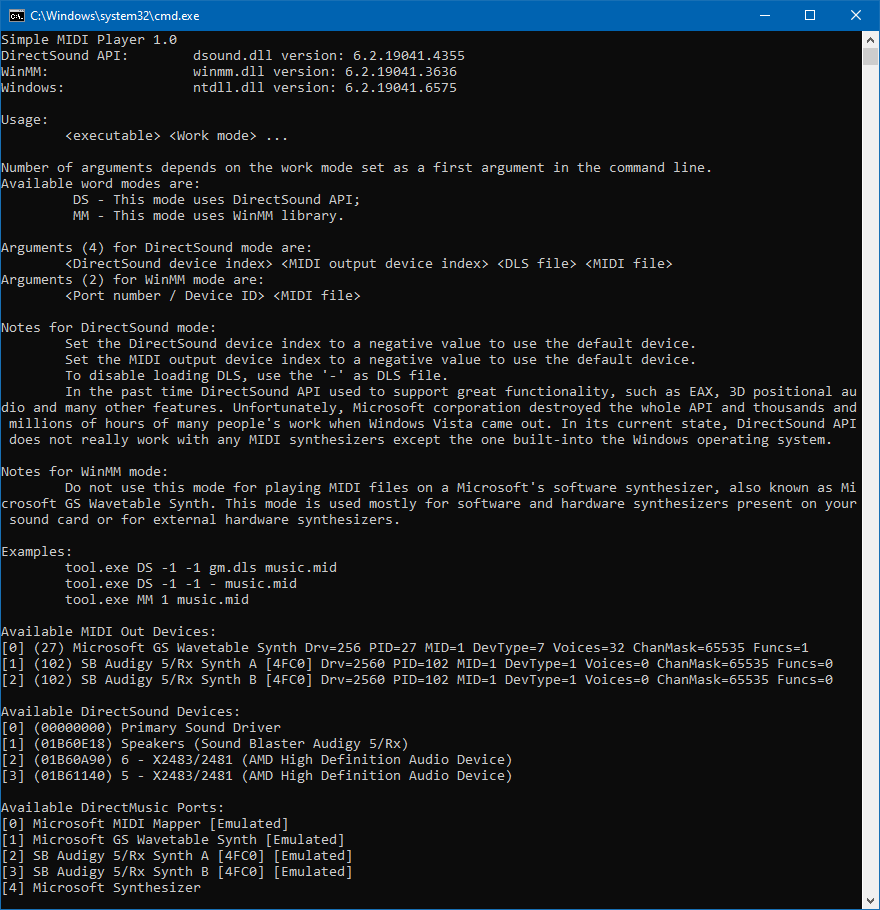
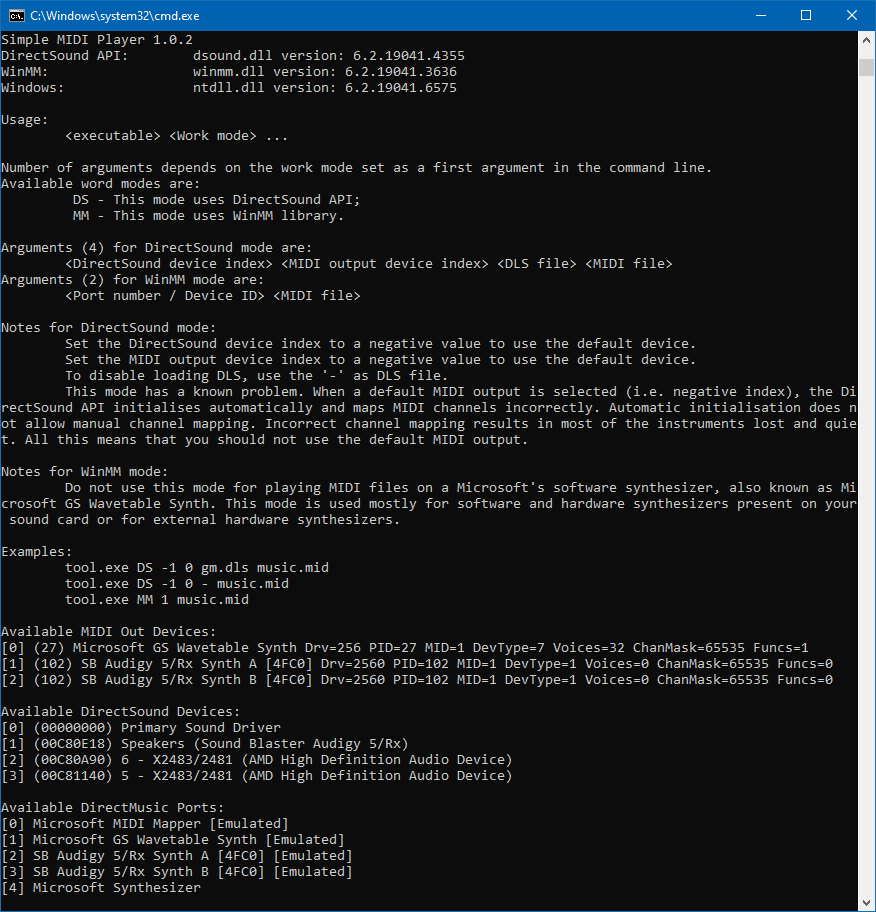
...

diff --git a/midi.cpp b/midi.cpp
@@ -3,8 +3,8 @@
 Simple MIDI Player.
 
 This player is able to play MIDI files using DirectSound API and WinMM library.
-DirectSound API can use the Microsoft's software synthesizer built-into the Windows operating system.
-WinMM library is able to play MIDI files on external software and hardware synthesizers.
+DirectSound API can be used for playback on all synthesizers.
+WinMM library is able to play MIDI files only on external software and hardware synthesizers.
 
 */
 
@@ -17,7 +17,7 @@ WinMM library is able to play MIDI files on external software and hardware synth
 #include <sstream>
 
 #define APP_NAME "Simple MIDI Player"
-#define APP_VER "1.0.1"
+#define APP_VER "1.0.2"
 
 const WCHAR* DIRECT_SOUND_DLL = L"dsound.dll";
 const WCHAR* WINDOWS_NT_DLL = L"ntdll.dll";
@@ -36,6 +36,7 @@ IDirectMusicSegment8* pSegment = NULL;
 IDirectMusicPort8* pPort = NULL;
 IDirectSoundBuffer* pDSBuffer = nullptr;
 BOOL isExternalSynth = FALSE;
+BOOL isSoftwareSynth = FALSE;
 
 // WinMM variables.
 std::vector<tagMIDIOUTCAPSA> midiOutDevices;
@@ -265,6 +266,7 @@ HRESULT CreateMusicPort(DMUS_PORTCAPS portCaps)
 	}
 
 	if (curPortCaps.dwFlags & DMUS_PC_SOFTWARESYNTH) {
+		isSoftwareSynth = TRUE;
 		std::cout << "Port is a software synthesizer" << std::endl;
 	}
 	else {
@@ -422,6 +424,11 @@ HRESULT Initialise(int ds_device_idx, int midi_output_device_idx, WCHAR* dls_fil
 		hr = pPerformance->AddPort(pPort);
 		if (FAILED(hr)) return hr;
 
+		for (int i = 0; i < 16; i++) {
+			hr = pPerformance->AssignPChannel(i, pPort, 0, i);
+			if (FAILED(hr)) return hr;
+		}
+
 		hr = pPort->Activate(TRUE);
 		if (FAILED(hr)) return hr;
 	}
@@ -460,68 +467,44 @@ HRESULT PlayMidi(WCHAR* midi_file_w, BOOL isExternalSynth)
 {
 	HRESULT hr;
 
-	if (isExternalSynth) {
-		// It looks like Microsoft has cut all the functions for communicating with external synthesizers.
-		// This is very sad.
-		return E_FAIL;
+	// Load MIDI file.
+	hr = pLoader->LoadObjectFromFile(CLSID_DirectMusicSegment, IID_IDirectMusicSegment8, midi_file_w, (void**)&pSegment);
+	if (FAILED(hr)) return hr;
+	if (!pSegment) {
+		std::cerr << "Segment is not loaded";
+		return -1;
 	}
-	else
-	{
-		// Load MIDI file.
-		hr = pLoader->LoadObjectFromFile(CLSID_DirectMusicSegment, IID_IDirectMusicSegment8, midi_file_w, (void**)&pSegment);
-		if (FAILED(hr)) return hr;
 
+	if ((!isExternalSynth) && (!isSoftwareSynth)) {
 		// Download instrument data to the synth (DLS)
 		hr = pSegment->Download(pPerformance);
 		if (FAILED(hr)) return hr;
-
-		if (!pSegment)
-		{
-			std::cerr << "Segment is not loaded";
-			return -1;
-		}
-
-		MUSIC_TIME segLenTicks;
-		REFERENCE_TIME segLenRT;
-		pSegment->GetLength(&segLenTicks);
-		pPerformance->MusicToReferenceTime(segLenTicks, &segLenRT);
-		DWORD prepareTimeMs;
-		pPerformance->GetPrepareTime(&prepareTimeMs);
-		REFERENCE_TIME latencyRT;
-		pPerformance->GetLatencyTime(&latencyRT);
-
-		std::cout << "Length: " << segLenTicks << " ticks, " << segLenRT << " ref. time." << std::endl;
-		std::cout << "Prepare time: " << prepareTimeMs << " ms, Latency: " << latencyRT << " ref. time." << std::endl;
-
-		// 5. Play the segment
-		/*
-		DMUS_SEGF_DEFAULT
-			Use flags embedded in the segment. This resolves the time to the segment's
-			default boundary and also causes the segment to play on its embedded
-			audiopath, if it was configured to do so in the authoring application.
-		DMUS_SEGF_AFTERPREPARETIME
-			Resolve time to a time after the prepare time. See
-			IDirectMusicPerformance8::GetPrepareTime.
-		*/
-		hr = pPerformance->PlaySegment(pSegment, DMUS_SEGF_DEFAULT | DMUS_SEGF_AFTERPREPARETIME, 0, NULL);
-		if (FAILED(hr)) return hr;
-
-		/*
-		pPerformance->PlaySegmentEx(
-			pSegment,     // Segment to play
-			NULL,         // Optional segment to fade from
-			NULL,         // Optional start time
-			DMUS_SEGF_BEAT, // Play on the next beat (standard MIDI files usually start immediately)
-			0,            // Start time (if using DMUS_SEGF_MEASURE/BEAT/GRID)
-			NULL,         // Object to receive notification
-
-			// ?
-			NULL,         // Audiopath (NULL uses default path set in InitAudio)
-
-			NULL          // Performance (for secondary performances)
-		);
-		*/
 	}
+
+	MUSIC_TIME segLenTicks;
+	REFERENCE_TIME segLenRT;
+	pSegment->GetLength(&segLenTicks);
+	pPerformance->MusicToReferenceTime(segLenTicks, &segLenRT);
+	DWORD prepareTimeMs;
+	pPerformance->GetPrepareTime(&prepareTimeMs);
+	REFERENCE_TIME latencyRT;
+	pPerformance->GetLatencyTime(&latencyRT);
+
+	std::cout << "Length: " << segLenTicks << " ticks, " << segLenRT << " ref. time." << std::endl;
+	std::cout << "Prepare time: " << prepareTimeMs << " ms, Latency: " << latencyRT << " ref. time." << std::endl;
+
+	// 5. Play the segment
+	/*
+	DMUS_SEGF_DEFAULT
+		Use flags embedded in the segment. This resolves the time to the segment's
+		default boundary and also causes the segment to play on its embedded
+		audiopath, if it was configured to do so in the authoring application.
+	DMUS_SEGF_AFTERPREPARETIME
+		Resolve time to a time after the prepare time. See
+		IDirectMusicPerformance8::GetPrepareTime.
+	*/
+	hr = pPerformance->PlaySegment(pSegment, DMUS_SEGF_DEFAULT | DMUS_SEGF_AFTERPREPARETIME, 0, NULL);
+	if (FAILED(hr)) return hr;
 
 	return S_OK;
 }
@@ -776,10 +759,11 @@ int main(int argc, char* argv[])
 		std::cout << "\tSet the DirectSound device index to a negative value to use the default device." << std::endl;
 		std::cout << "\tSet the MIDI output device index to a negative value to use the default device." << std::endl;
 		std::cout << "\tTo disable loading DLS, use the '" << convertWCharToStdStringWinAPI(DLS_FILE_NONE) << "' as DLS file." << std::endl;
-		std::cout << "\tIn the past time DirectSound API used to support great functionality, such as EAX, 3D positional audio and many other features. " <<
-			"Unfortunately, Microsoft corporation destroyed the whole API and thousands and millions of hours of many people's work when Windows Vista came out. " <<
-			"In its current state, DirectSound API does not really work with any MIDI synthesizers except the one built-into the Windows operating system. " <<
-			std::endl;
+		std::cout << "\tThis mode has a known problem. When a default MIDI output is selected (i.e. negative index), " <<
+			"the DirectSound API initialises automatically and maps MIDI channels incorrectly. " <<
+			"Automatic initialisation does not allow manual channel mapping. " <<
+			"Incorrect channel mapping results in most of the instruments lost and quiet. " <<
+			"All this means that you should not use the default MIDI output. " << std::endl;
 		std::cout << std::endl;
 
 		std::cout << "Notes for WinMM mode: " << std::endl;
@@ -788,8 +772,8 @@ int main(int argc, char* argv[])
 		std::cout << std::endl;
 
 		std::cout << "Examples: " << std::endl;
-		std::cout << "\ttool.exe DS -1 -1 gm.dls music.mid" << std::endl;
-		std::cout << "\ttool.exe DS -1 -1 - music.mid" << std::endl;
+		std::cout << "\ttool.exe DS -1 0 gm.dls music.mid" << std::endl;
+		std::cout << "\ttool.exe DS -1 0 - music.mid" << std::endl;
 		std::cout << "\ttool.exe MM 1 music.mid" << std::endl;
 		std::cout << std::endl;
 
